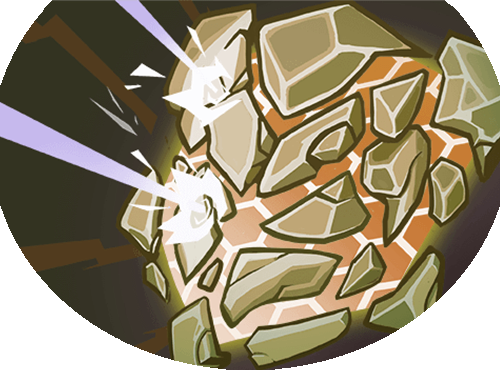
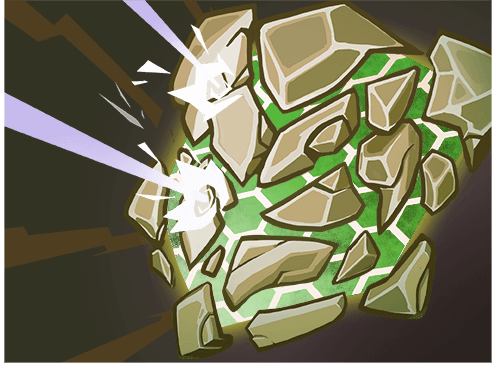
Resized and recolored some of the copied art.

diff --git a/ShadeMod/src/main/java/shade/actions/UndeadAutoAttack.java b/ShadeMod/src/main/java/shade/actions/UndeadAutoAttack.java
@@ -85,7 +85,7 @@ public class UndeadAutoAttack extends AbstractGameAction {
             if(!this.owner.hasPower("Shade:CoordinationPower")) {
 	            AbstractDungeon.actionManager.addToTop(new DamageAction(mo,
 	                    new DamageInfo(AbstractDungeon.player, this.damage, DamageInfo.DamageType.THORNS),AE));
-            }else {
+            }else{
             	AbstractDungeon.actionManager.addToTop(new DamageAllEnemiesAction(AbstractDungeon.player, this.damage, DamageInfo.DamageType.THORNS, AE));
             }
 

diff --git a/ShadeMod/src/main/java/shade/powers/DarkOfNightPower.java b/ShadeMod/src/main/java/shade/powers/DarkOfNightPower.java
@@ -68,7 +68,7 @@ public class DarkOfNightPower extends AbstractPower {
           
           this.amount--;
           if (this.amount == 0) {
-            addToBot(new RemoveSpecificPowerAction(this.owner, this.owner, this.ID));
+        	  AbstractDungeon.actionManager.addToBottom(new RemoveSpecificPowerAction(this.owner, this.owner, this.ID));
           }
         } 
       }

diff --git a/ShadeMod/src/main/java/shade/cards/WallOfFlesh.java b/ShadeMod/src/main/java/shade/cards/WallOfFlesh.java
@@ -38,7 +38,7 @@ public class WallOfFlesh
 	public WallOfFlesh() {
 		super(ID, NAME, ShadeMod.getResourcePath(IMG_PATH), COST, DESCRIPTION, TYPE,
 				AbstractCardEnum.SHADE, RARITY, TARGET);
-		this.baseBlock = 4;
+		this.baseBlock = 7;
 		this.block = this.baseBlock;
 		this.baseMagicNumber=2;
 		this.magicNumber=this.baseMagicNumber;
